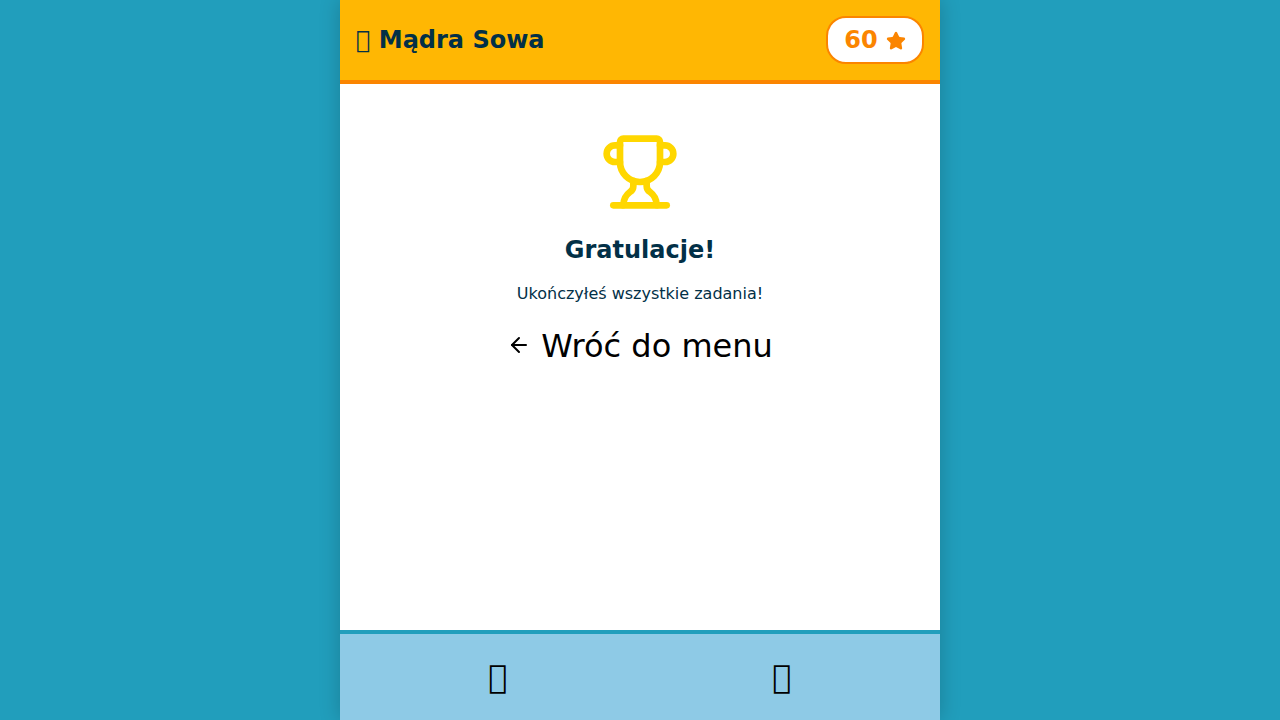
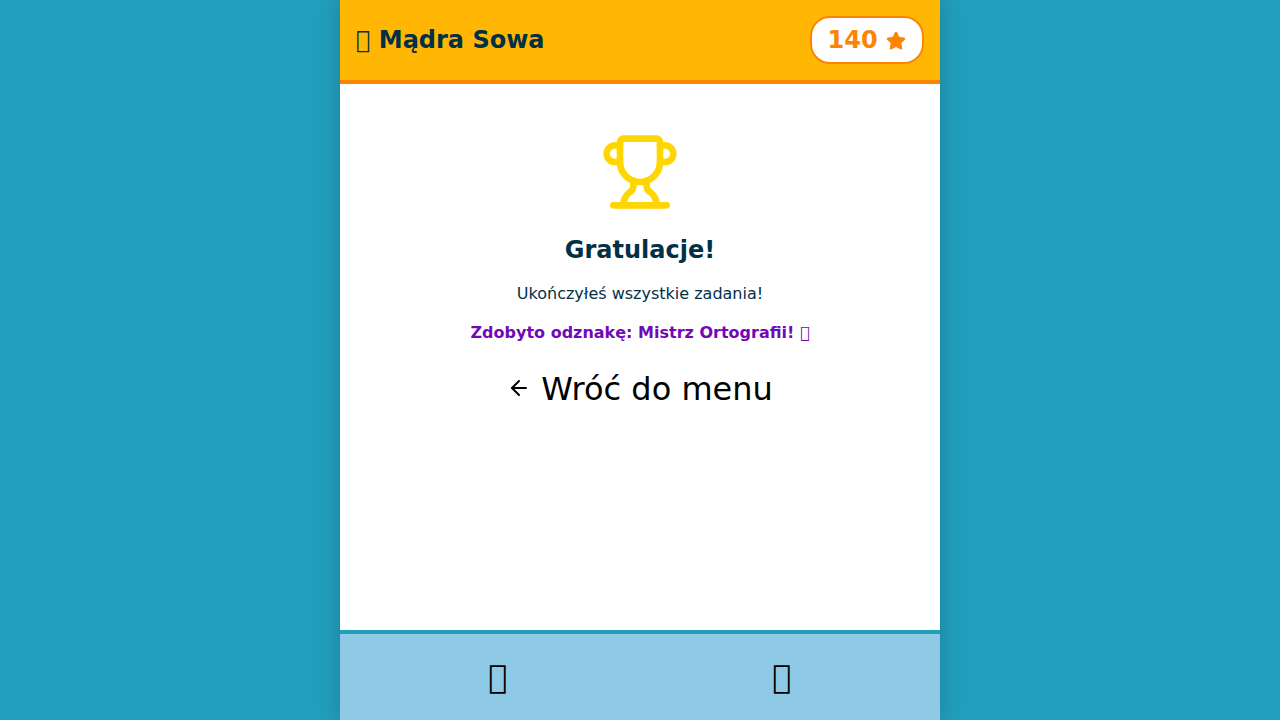
Rename 'Klasa 2' to 'Szkoła', add badges, and expand content.
- Renamed menu button from "Klasa 2" to "Szkoła".
- Added 2 new badges: "Poeta" (Sentence Master) and "Mistrz Ortografii" (Spelling Master).
- Expanded Polish alphabet (added ł, ń, ś, ć, ż, ź, ą, ę, ó).
- Expanded syllables list.
- Added more sentence building and fill-in-the-blank tasks.
- Added more voice practice words and puzzles.
- Implemented badge unlocking logic in SentenceBuilder and FillInTheBlank.

Changed region(s): [[0.375, 0.4583, 0.625, 0.5806], [0.625, 0.0, 0.6875, 0.0917]]

diff --git a/src/data/content.js b/src/data/content.js
@@ -22,6 +22,15 @@ export const letters = [
   { id: 'w', char: 'w', type: 'consonant', sound: 'wu' },
   { id: 'y', char: 'y', type: 'vowel', sound: 'y' },
   { id: 'z', char: 'z', type: 'consonant', sound: 'zet' },
+  { id: 'ż', char: 'ż', type: 'consonant', sound: 'rzet' },
+  { id: 'ź', char: 'ź', type: 'consonant', sound: 'ziet' },
+  { id: 'ć', char: 'ć', type: 'consonant', sound: 'cie' },
+  { id: 'ń', char: 'ń', type: 'consonant', sound: 'eń' },
+  { id: 'ł', char: 'ł', type: 'consonant', sound: 'eł' },
+  { id: 'ó', char: 'ó', type: 'vowel', sound: 'o kreskowane' },
+  { id: 'ś', char: 'ś', type: 'consonant', sound: 'eś' },
+  { id: 'ą', char: 'ą', type: 'vowel', sound: 'ą' },
+  { id: 'ę', char: 'ę', type: 'vowel', sound: 'ę' },
 ];
 
 export const upperCaseLetters = letters.map(l => ({ ...l, char: l.char.toUpperCase() }));
@@ -38,9 +47,29 @@ export const syllables = [
   { id: 'la', char: 'la', type: 'syllable' },
   { id: 'le', char: 'le', type: 'syllable' },
   { id: 'li', char: 'li', type: 'syllable' },
+  { id: 'lo', char: 'lo', type: 'syllable' },
+  { id: 'lu', char: 'lu', type: 'syllable' },
   { id: 'da', char: 'da', type: 'syllable' },
+  { id: 'de', char: 'de', type: 'syllable' },
+  { id: 'do', char: 'do', type: 'syllable' },
   { id: 'ka', char: 'ka', type: 'syllable' },
+  { id: 'ke', char: 'ke', type: 'syllable' },
+  { id: 'ki', char: 'ki', type: 'syllable' },
+  { id: 'ko', char: 'ko', type: 'syllable' },
+  { id: 'ku', char: 'ku', type: 'syllable' },
   { id: 'ba', char: 'ba', type: 'syllable' },
+  { id: 'be', char: 'be', type: 'syllable' },
+  { id: 'bi', char: 'bi', type: 'syllable' },
+  { id: 'bo', char: 'bo', type: 'syllable' },
+  { id: 'pa', char: 'pa', type: 'syllable' },
+  { id: 'po', char: 'po', type: 'syllable' },
+  { id: 'pi', char: 'pi', type: 'syllable' },
+  { id: 'ra', char: 'ra', type: 'syllable' },
+  { id: 'ro', char: 'ro', type: 'syllable' },
+  { id: 'sa', char: 'sa', type: 'syllable' },
+  { id: 'so', char: 'so', type: 'syllable' },
+  { id: 'za', char: 'za', type: 'syllable' },
+  { id: 'zo', char: 'zo', type: 'syllable' },
 ];
 
 export const stickers = [
@@ -75,5 +104,7 @@ export const badges = [
     { id: 'master_big', name: 'Mistrz Dużych Liter', icon: 'ABC', description: 'Ukończono naukę dużych liter' },
     { id: 'master_syllables', name: 'Mistrz Sylab', icon: 'MaMe', description: 'Poznano sylaby' },
     { id: 'puzzle_solver', name: 'Mistrz Puzzli', icon: '🧩', description: 'Ułożono 5 słów' },
-    { id: 'quiz_wiz', name: 'Omnibus', icon: '🎓', description: 'Zdobyto 100 punktów w quizach' }
+    { id: 'quiz_wiz', name: 'Omnibus', icon: '🎓', description: 'Zdobyto 100 punktów w quizach' },
+    { id: 'sentence_master', name: 'Poeta', icon: '✍', description: 'Ułożono wszystkie zdania' },
+    { id: 'spelling_master', name: 'Mistrz Ortografii', icon: '📝', description: 'Ukończono wszystkie uzupełnianki' }
 ];

diff --git a/src/data/grade2.js b/src/data/grade2.js
@@ -29,6 +29,24 @@ export const sentenceBuilderData = [
     sentence: 'Zima jest zimna',
     scramble: ['jest', 'zimna', 'Zima'],
     audio: 'zima_jest_zimna'
+  },
+  {
+    id: 's6',
+    sentence: 'Książka leży na stole',
+    scramble: ['stole', 'na', 'leży', 'Książka'],
+    audio: 'ksiazka_lezy'
+  },
+  {
+    id: 's7',
+    sentence: 'Wiosną kwitną kwiaty',
+    scramble: ['kwiaty', 'kwitną', 'Wiosną'],
+    audio: 'wiosna_kwitna'
+  },
+  {
+    id: 's8',
+    sentence: 'Ptak lata wysoko',
+    scramble: ['wysoko', 'lata', 'Ptak'],
+    audio: 'ptak_lata'
   }
 ];
 
@@ -83,5 +101,31 @@ export const fillInBlankData = [
     options: ['ó', 'u', 'o'],
     fullWord: 'Góra',
     image: '🏔'
+  },
+  {
+    id: 'f7',
+    type: 'word',
+    question: 'M_rze',
+    answer: 'o',
+    options: ['o', 'u', 'ó'],
+    fullWord: 'Morze',
+    image: '🌊'
+  },
+  {
+    id: 'f8',
+    type: 'word',
+    question: 'Rz_d',
+    answer: 'ą',
+    options: ['ą', 'om', 'on'],
+    fullWord: 'Rząd',
+    image: '🏛'
+  },
+  {
+    id: 'f9',
+    type: 'sentence',
+    question: 'Krowa daje ____',
+    answer: 'mleko',
+    options: ['mleko', 'sok', 'wodę'],
+    image: '🐮'
   }
 ];

diff --git a/src/components/FillInTheBlank.jsx b/src/components/FillInTheBlank.jsx
@@ -3,7 +3,7 @@ import { useGame } from '../context/GameContext';
 import { ArrowLeft, Check, Trophy, Star } from 'lucide-react';
 
 const FillInTheBlank = ({ data, onBack }) => {
-  const { addPoints } = useGame();
+  const { addPoints, unlockBadge } = useGame();
   const [currentIdx, setCurrentIdx] = useState(0);
   const [selectedOption, setSelectedOption] = useState(null);
   const [isCorrect, setIsCorrect] = useState(null);
@@ -56,12 +56,21 @@ const FillInTheBlank = ({ data, onBack }) => {
     }
   };
 
+  useEffect(() => {
+    if (completed) {
+      unlockBadge('spelling_master');
+    }
+  }, [completed, unlockBadge]);
+
   if (completed) {
     return (
       <div className="game-container" style={{ textAlign: 'center', padding: '2rem' }}>
         <Trophy size={80} color="#FFD700" />
         <h2>Gratulacje!</h2>
         <p>Ukończyłeś wszystkie zadania!</p>
+        <div style={{ margin: '20px 0', color: '#7209B7', fontWeight: 'bold' }}>
+            Zdobyto odznakę: Mistrz Ortografii! 📝
+        </div>
         <button className="nav-btn" onClick={onBack}>
           <ArrowLeft size={24} /> Wróć do menu
         </button>

diff --git a/src/components/SentenceBuilder.jsx b/src/components/SentenceBuilder.jsx
@@ -3,7 +3,7 @@ import { useGame } from '../context/GameContext';
 import { ArrowLeft, Check, RefreshCw, Trophy, Star } from 'lucide-react';
 
 const SentenceBuilder = ({ data, onBack }) => {
-  const { addPoints } = useGame();
+  const { addPoints, unlockBadge } = useGame();
   const [currentIdx, setCurrentIdx] = useState(0);
   const [userOrder, setUserOrder] = useState([]);
   const [availableWords, setAvailableWords] = useState([]);
@@ -65,12 +65,21 @@ const SentenceBuilder = ({ data, onBack }) => {
     }
   };
 
+  useEffect(() => {
+    if (completed) {
+      unlockBadge('sentence_master');
+    }
+  }, [completed, unlockBadge]);
+
   if (completed) {
     return (
       <div className="game-container" style={{ textAlign: 'center', padding: '2rem' }}>
         <Trophy size={80} color="#FFD700" />
         <h2>Gratulacje!</h2>
         <p>Ukończyłeś wszystkie zdania!</p>
+        <div style={{ margin: '20px 0', color: '#7209B7', fontWeight: 'bold' }}>
+            Zdobyto odznakę: Poeta! ✍
+        </div>
         <button className="nav-btn" onClick={onBack}>
           <ArrowLeft size={24} /> Wróć do menu
         </button>

diff --git a/src/data/newModes.js b/src/data/newModes.js
@@ -11,6 +11,9 @@ export const voiceWords = [
   { id: 'oko', word: 'oko', emoji: '👁' },
   { id: 'nos', word: 'nos', emoji: '👃' },
   { id: 'ucho', word: 'ucho', emoji: '👂' },
+  { id: 'ręka', word: 'ręka', emoji: '🤚' },
+  { id: 'noga', word: 'noga', emoji: '🦶' },
+  { id: 'zupa', word: 'zupa', emoji: '🍲' },
 ];
 
 export const logotherapyExercises = [
@@ -87,4 +90,22 @@ export const puzzleData = [
     distractors: ['A', 'L', 'M'],
     gridSize: { rows: 1, cols: 3 } // 3 elements
   },
+  {
+    id: 'p5',
+    word: 'PIES',
+    imageUrl: 'https://images.unsplash.com/photo-1543466835-00a7907e9de1?q=80&w=600&auto=format&fit=crop',
+    imageEmoji: '🐶',
+    parts: ['P', 'I', 'E', 'S'],
+    distractors: ['L', 'O', 'K'],
+    gridSize: { rows: 2, cols: 2 }
+  },
+  {
+    id: 'p6',
+    word: 'LAS',
+    imageUrl: 'https://images.unsplash.com/photo-1448375240586-dfd8f3793300?q=80&w=600&auto=format&fit=crop',
+    imageEmoji: '🌲',
+    parts: ['L', 'A', 'S'],
+    distractors: ['K', 'O', 'T'],
+    gridSize: { rows: 1, cols: 3 }
+  }
 ];

diff --git a/src/App.jsx b/src/App.jsx
@@ -35,7 +35,7 @@ const MainContent = () => {
             </button>
             <button className="menu-card" style={{ backgroundColor: '#7209B7', color: 'white' }} onClick={() => setView('menu-grade2')}>
               <PenTool size={40} />
-              <br />Klasa 2
+              <br />Szkoła
             </button>
             <button className="menu-card" style={{ backgroundColor: '#FB8500' }} onClick={() => setView('stickers')}>
               <Smile size={40} />

diff --git a/verification/verify_completion.py b/verification/verify_completion.py
@@ -10,26 +10,23 @@ def run(playwright):
 
     # --- TEST FILL IN BLANKS COMPLETION ---
     print("Navigating to Fill in Blanks...")
-    page.click("text=Klasa 2")
+    # UPDATED: Button is now called "Szkoła"
+    page.click("text=Szkoła")
     page.click("text=Uzupełnianki")
     page.wait_for_selector(".question-card")
 
-    # We need to answer all questions to reach completion
-    # Currently data has 6 items.
-    # To speed up, we can't easily skip, so we must answer correctly.
-    # But wait, we don't know the order or the correct answer easily without logic.
-    # However, the code logic: if (selectedOption === currentItem.answer)
-    # The 'answer' is not in the DOM.
-    # But we can try all options until "Correct" feedback appears?
-
     print("Attempting to solve all questions...")
 
-    # Loop until we see "Gratulacje" or timeout
-    max_attempts = 10 # 6 questions
+    max_attempts = 15 # increased limit
     for i in range(max_attempts):
         if page.locator("text=Gratulacje!").is_visible():
             print("Completion screen reached!")
             page.screenshot(path="verification/completion_fill_blanks.png")
+            # Verify badge message
+            if page.locator("text=Zdobyto odznakę: Mistrz Ortografii!").is_visible():
+                print("Badge message verified!")
+            else:
+                print("Badge message NOT found.")
             break
 
         # Find options
@@ -58,7 +55,6 @@ def run(playwright):
                 continue
 
         if not found_correct:
-             # This might happen if we already finished or logic failed
              if page.locator("text=Gratulacje!").is_visible():
                  print("Completion screen reached!")
                  page.screenshot(path="verification/completion_fill_blanks.png")
